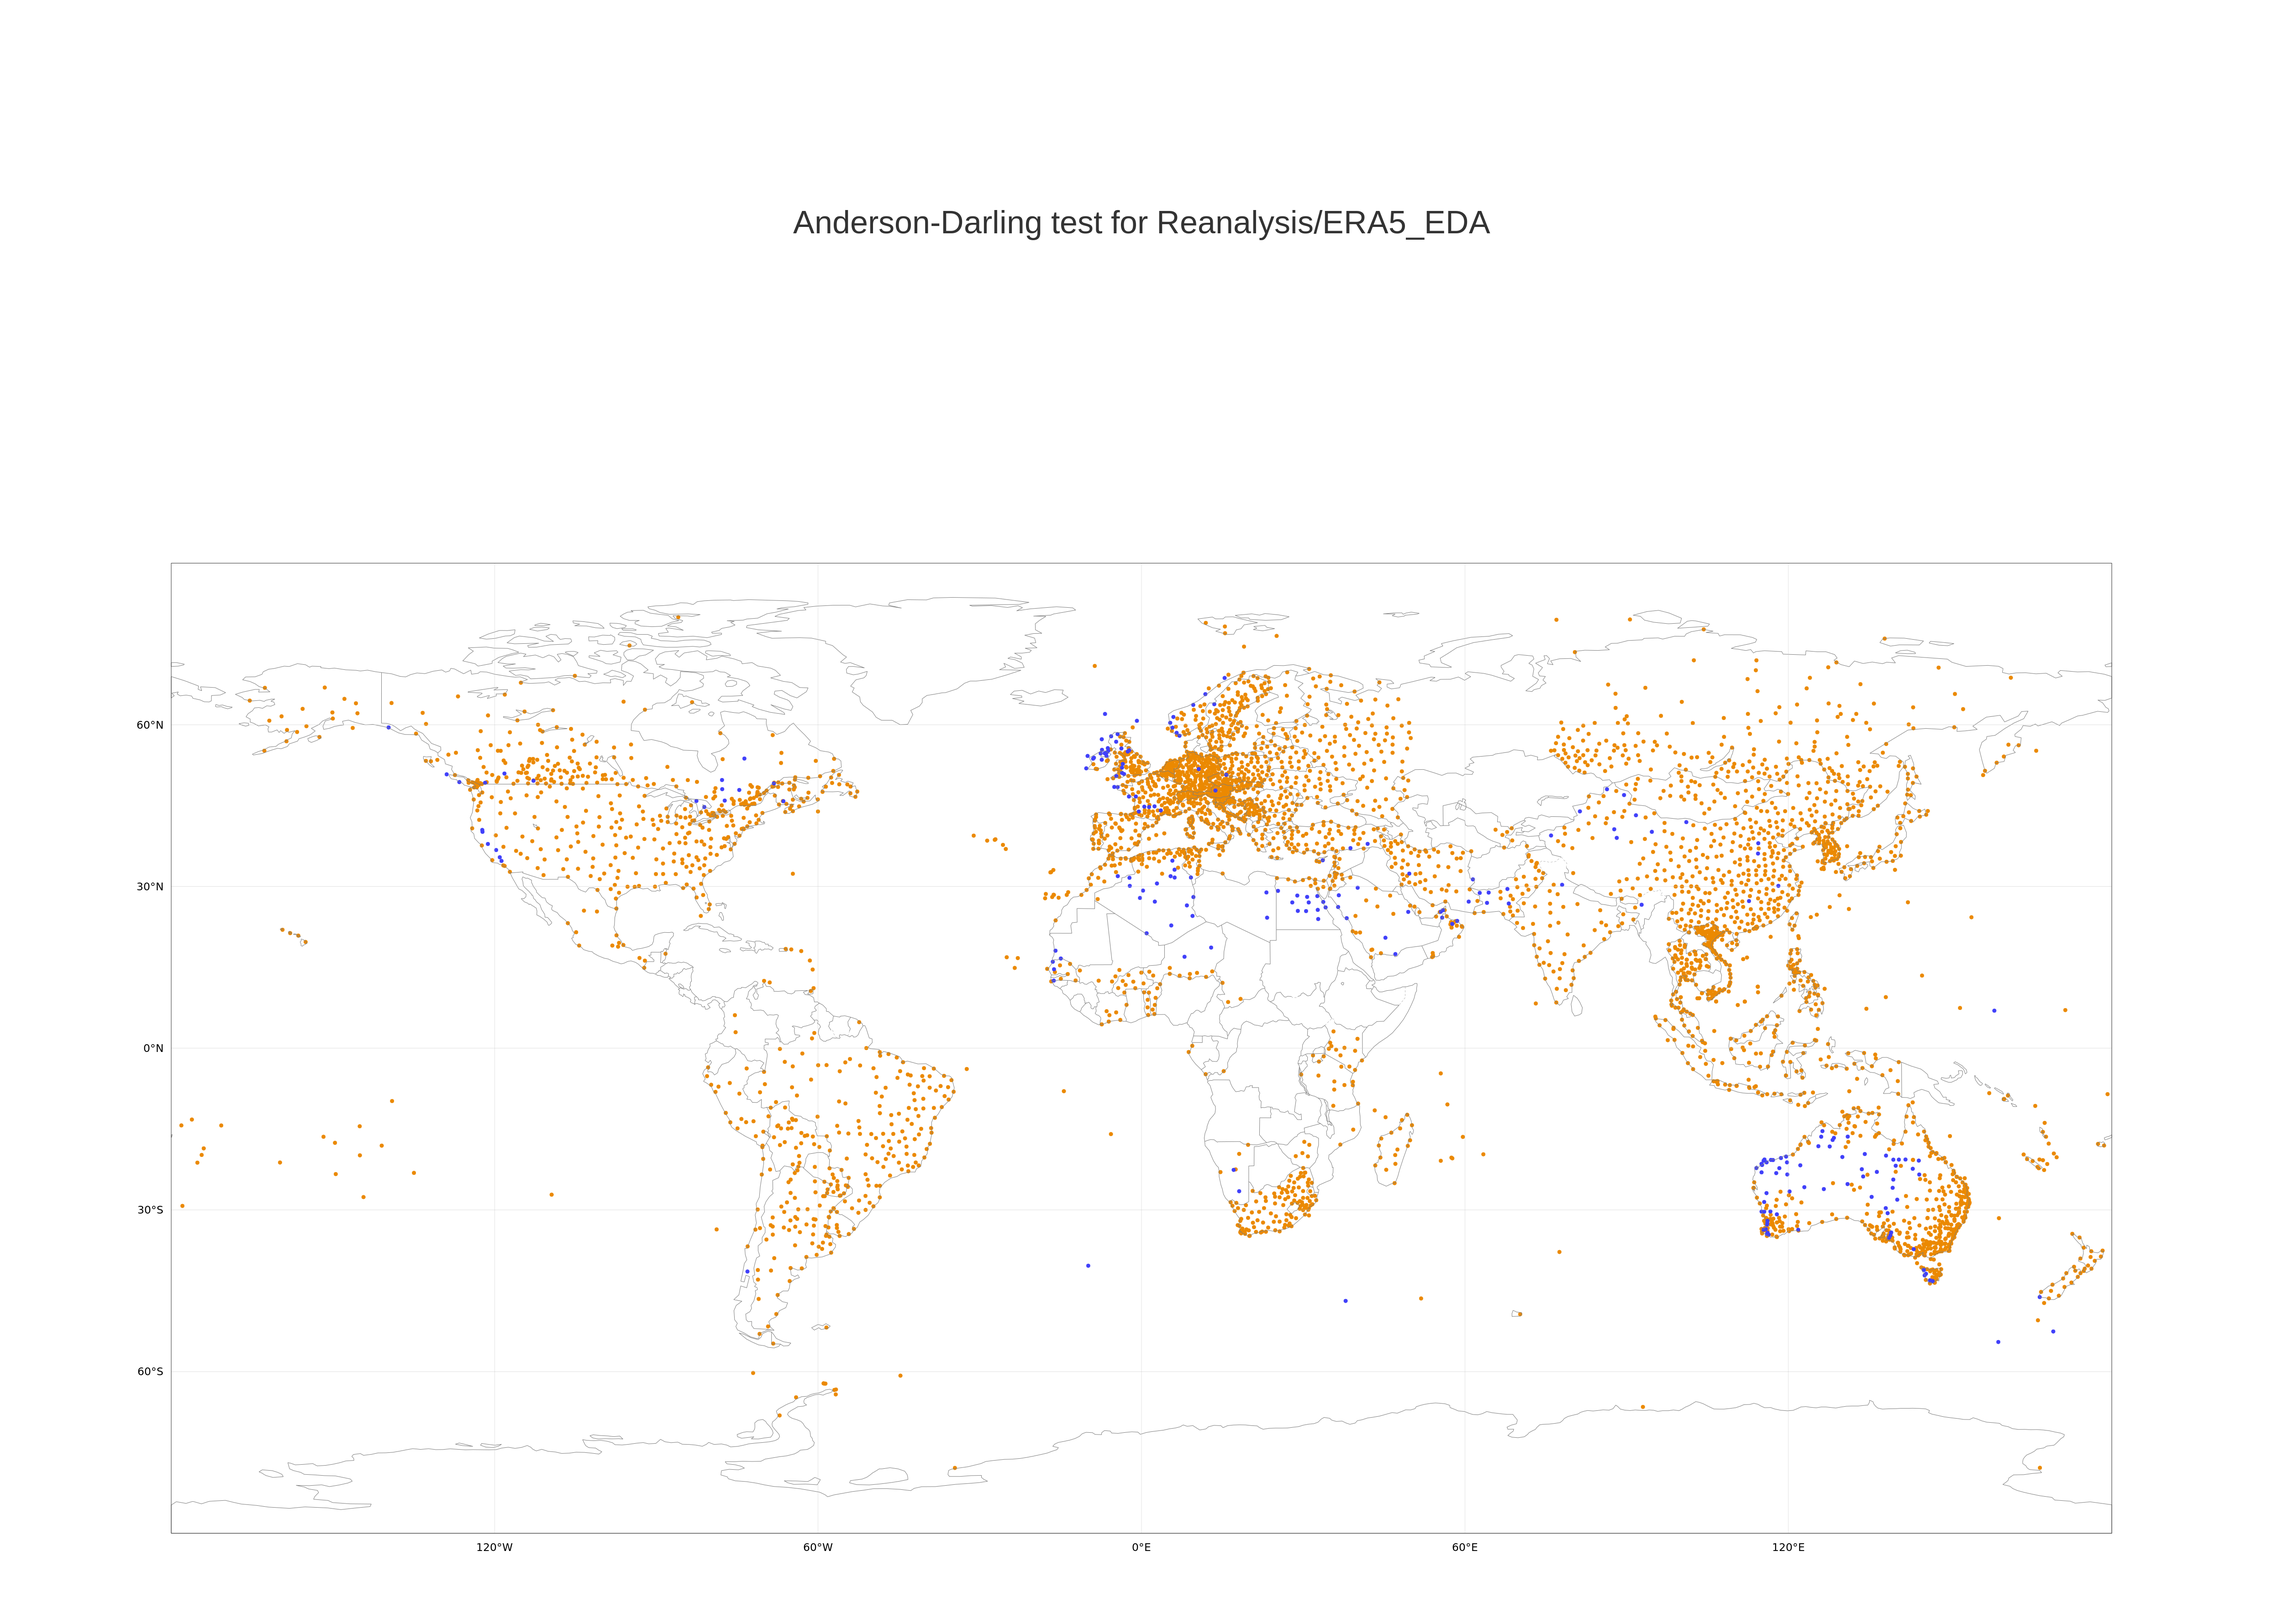
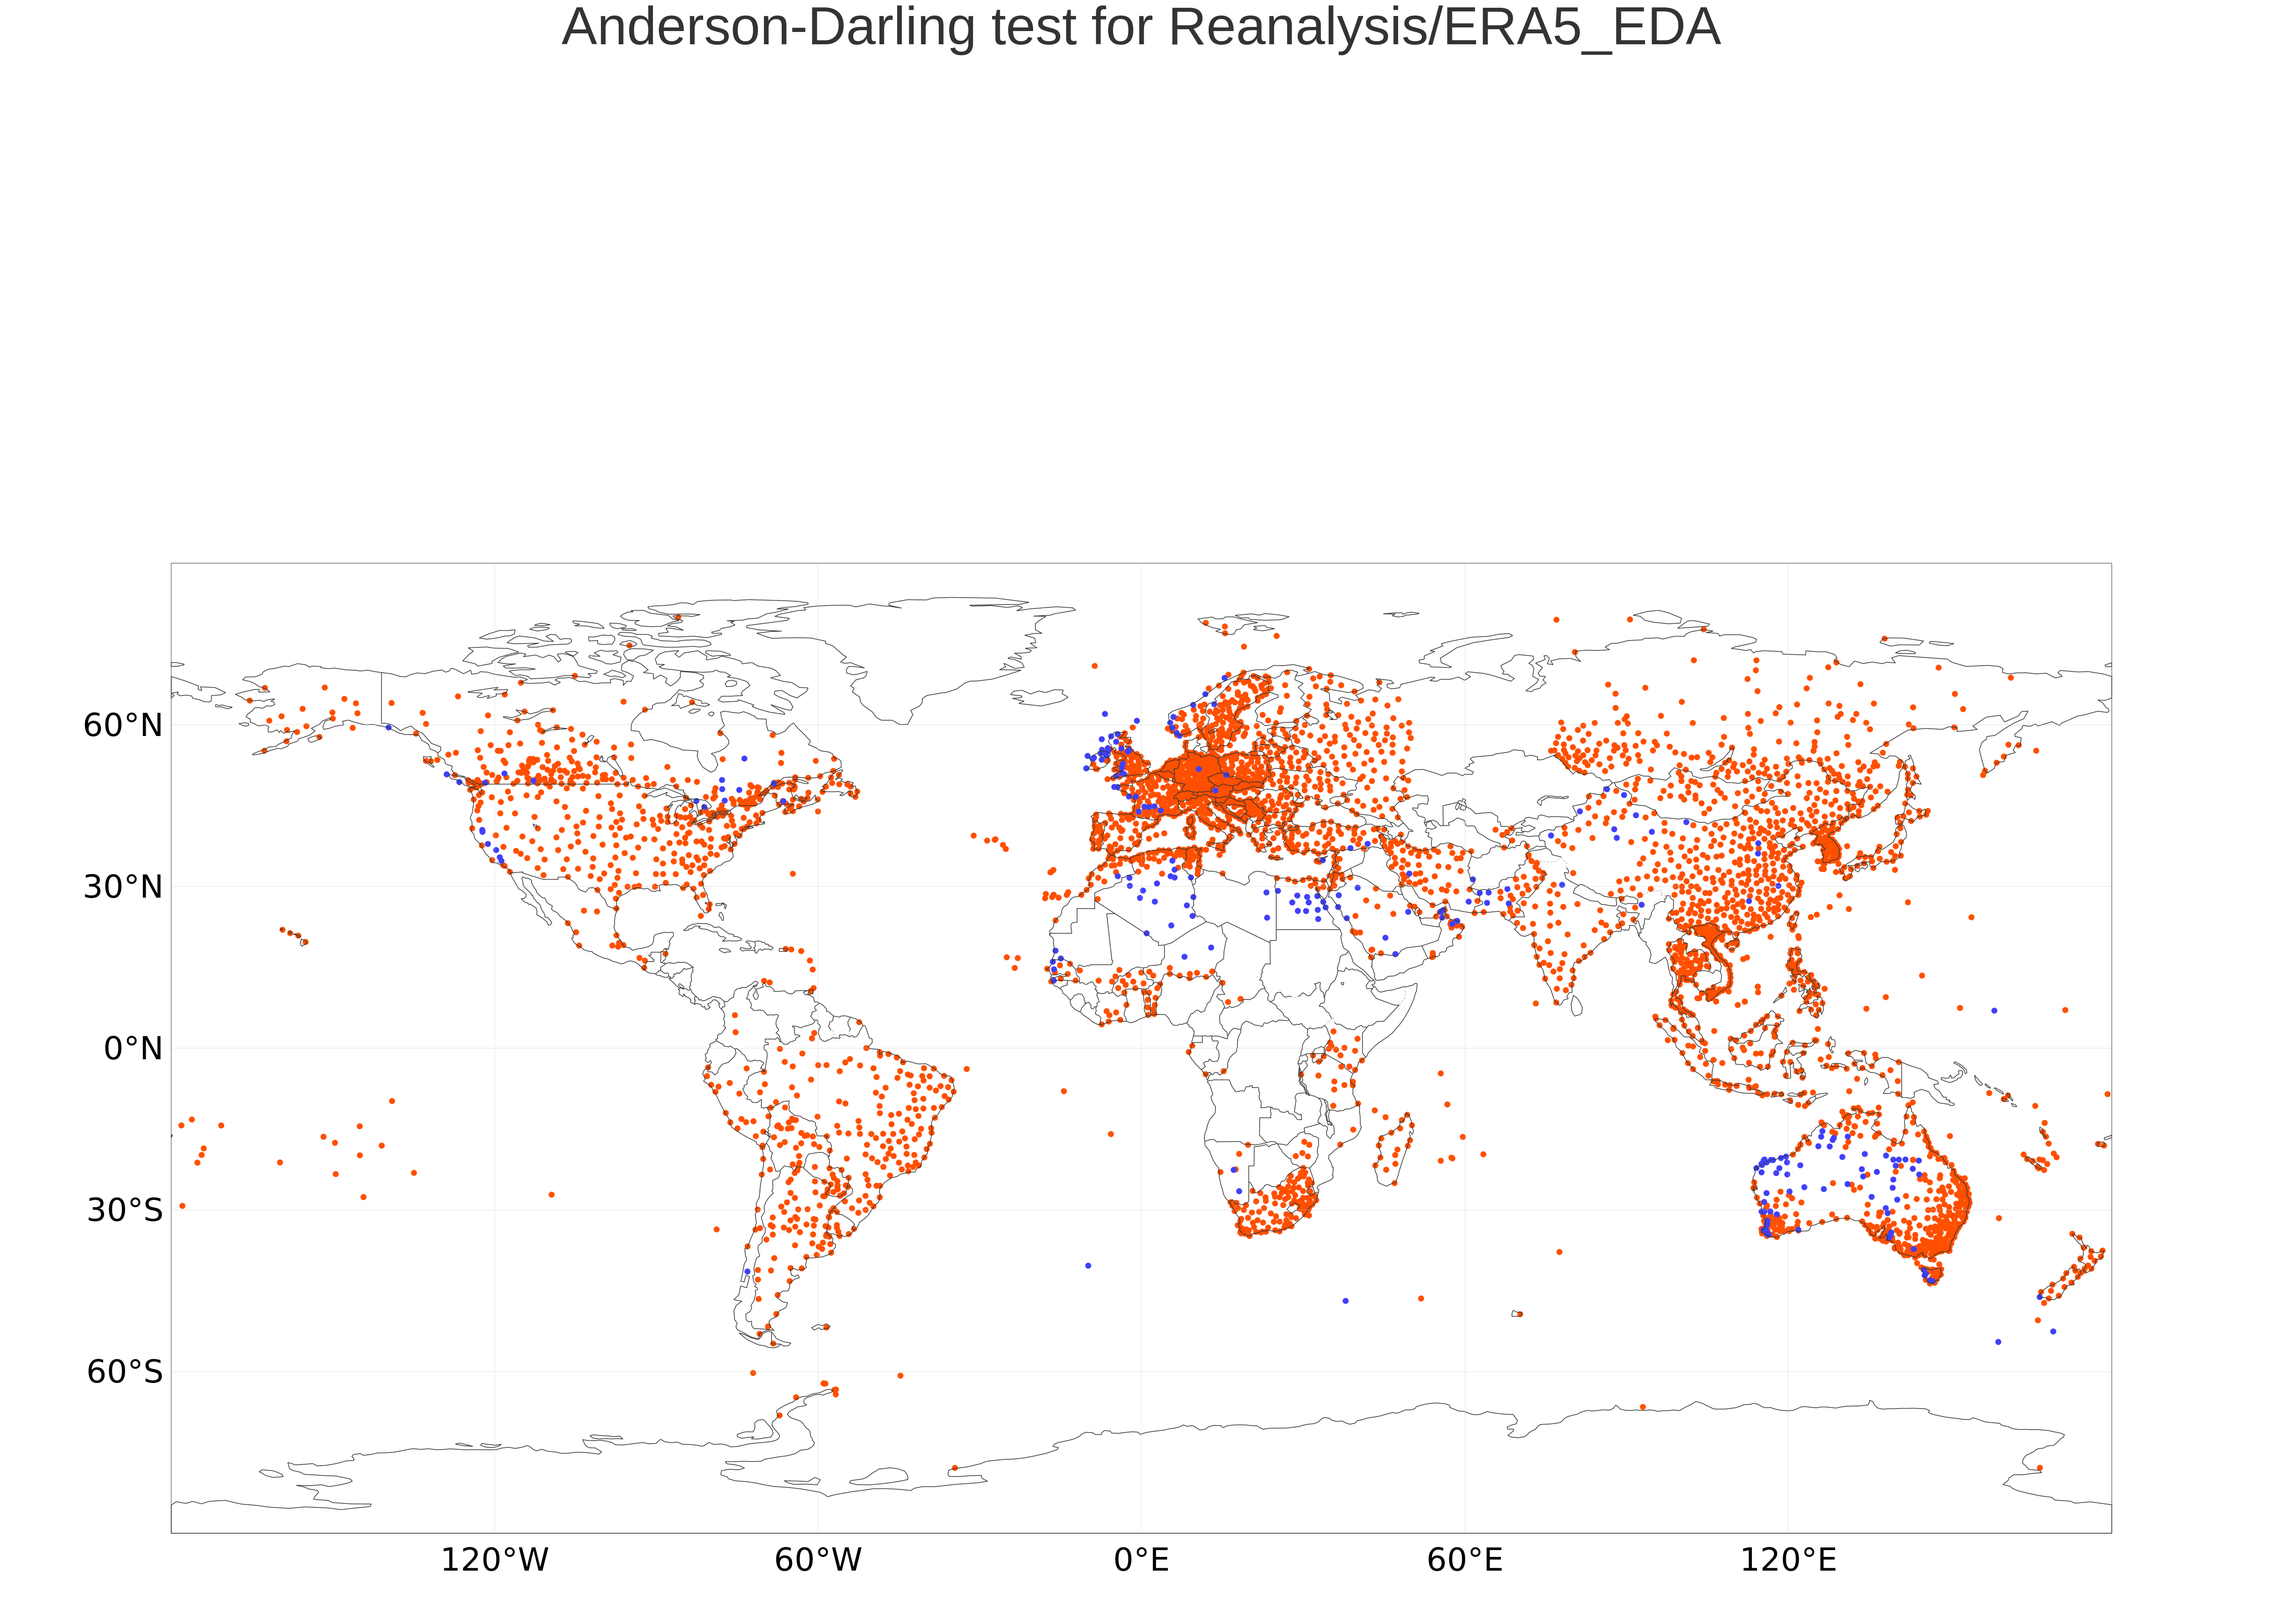
improve ad plots.

diff --git a/Scripts/Processed/04_Plot_Statistic_AD.py b/Scripts/Processed/04_Plot_Statistic_AD.py
@@ -65,18 +65,18 @@ for SystemNWP in SystemNWP_list:
 
       # Plotting the A-D statistic
       coastlines = mv.mcoast(
-            map_coastline_thickness = 2,
-            map_coastline_colour = "rgb(0.4902,0.4902,0.4902)",
+            map_coastline_thickness = 3,
+            map_coastline_colour = "charcoal",
             map_coastline_resolution = "low",
             map_boundaries = "on",
-            map_boundaries_colour = "rgb(0.4902,0.4902,0.4902)",
-            map_boundaries_thickness = 2,
+            map_boundaries_colour = "charcoal",
+            map_boundaries_thickness = 3,
             map_grid = "on",
             map_grid_colour = "rgb(0.7686,0.7686,0.7686)",
             map_grid_latitude_increment  = 30,
             map_grid_longitude_increment = 60,
             map_label = "on",
-            map_label_height = 1,
+            map_label_height = 3,
             map_label_top = "off",
             map_label_right = "off"
             )
@@ -89,8 +89,8 @@ for SystemNWP in SystemNWP_list:
             symbol_min_table = [-0.5,0.5], #only the 1s are plotted in the map
             symbol_max_table = [0.5,1.5],
             symbol_marker_table = [15,15],
-            symbol_colour_table = ["rgb(0.9182,0.5387,0.007263)","rgb(0.2525,0.2525,0.9789)"], 
-            symbol_height_table = [0.1,0.1]
+            symbol_colour_table = ["rgb(1,0.3098,0)","rgb(0.2525,0.2525,0.9789)"], 
+            symbol_height_table = [0.15,0.15]
             )
       
       Title_text_line_1 = "Anderson-Darling test for " + SystemNWP
@@ -100,7 +100,16 @@ for SystemNWP in SystemNWP_list:
             text_line_2 = " ",
             text_colou ="charcoal",
             text_font ="arial",
-            text_font_size = 3
+            text_font_size = 5
+            )
+
+      legend = mv.mlegend(
+            legend_text_colour = "charcoal",
+            legend_text_font_size = 0.5,
+            legend_display_type = "disjoint",
+            legend_text_composition = "user_text_only",
+            legend_user_lines = ["nwp clim NOT representative of obs clim","nwp clim REPESENTATIVE of obs clim"],
+            legend_entry_text_width = 50.00,
             )
 
       # Saving the map plots
@@ -109,4 +118,4 @@ for SystemNWP in SystemNWP_list:
             os.makedirs(MainDirOUT)
       png = mv.png_output(output_width = 5000, output_name = MainDirOUT + "/TestAD")
       mv.setoutput(png)
-      mv.plot(test_AD_geo, coastlines, markers, title)
+      mv.plot(test_AD_geo, coastlines, markers, legend, title)
